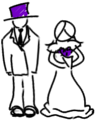
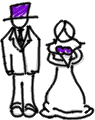
redrew cake toppers added some tiers i think
git-svn-id: http://sircbuntu.local/svn/kc.com@262 e287d1ed-c425-dd4e-94ca-1c9bc6275cfe

diff --git a/index.html b/index.html
@@ -276,8 +276,17 @@
 					Address Update
 				</div>
 				<div class="tiercontent">
+					<div class="contentpad">
+						<iframe src="https://spreadsheets.google.com/embeddedform?formkey=dEZLOFdqV292MTRsR3FkLWl4anRubGc6MA" width="760" height="1185" frameborder="0" marginheight="0" marginwidth="0">Loading...</iframe>
+					</div>
 				</div>
 			</div></div>
+			<div class="icing tier6">
+				<div class="icingleft">
+					<div class="icingright">
+					</div>
+				</div>
+			</div>
 		</div>
 	</body>
 </html>

diff --git a/js.js b/js.js
@@ -8,6 +8,8 @@ function init() {
   $("#tier2").cake({level:2});
   $("#tier3").cake({level:3});
   $("#tier4").cake({level:4});
+  $("#tier5").cake({level:5});
+  $("#tier6").cake({level:6});
   //$("#tier1").click(openpics);
   $(".tiercontent").click(function(event) {event.stopPropagation();});
 }

diff --git a/style.css b/style.css
@@ -142,6 +142,10 @@ p.bridal
 {
   width:360px;
 }
+.tier6
+{
+  width:400px;
+}
 .tierlabel
 {
   padding-top:35px;
